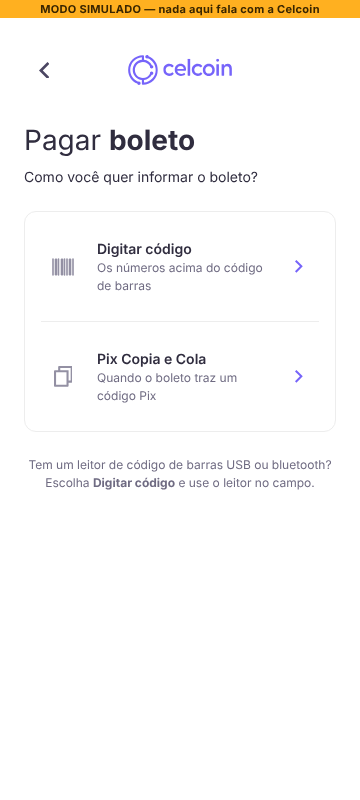
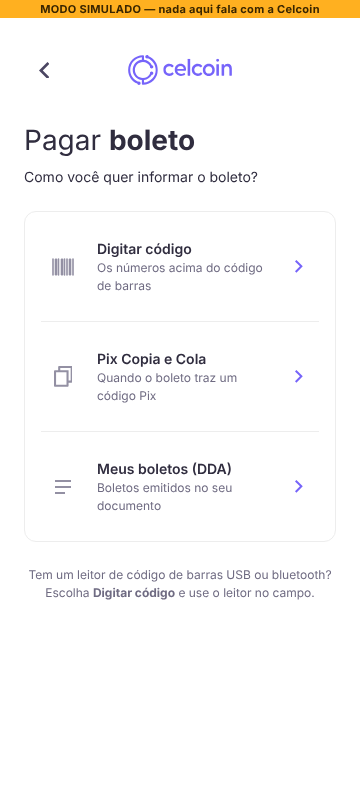
Catálogo e evidências de telas: módulo DDA (121 telas no total)
Claude-Session: https://claude.ai/code/session_01RmHqCyha3EQC9TShzPirEG

Changed region(s): [[0.0917, 0.5625, 0.9167, 0.6562], [0.1222, 0.7188, 0.8861, 0.75], [0.8861, 0.6875, 0.9167, 0.7188]]

diff --git a/docs/telas/Evidencias de telas.md b/docs/telas/Evidencias de telas.md
@@ -1,6 +1,6 @@
 # Evidências de telas
 
-Print de cada tela do LoBank, separado pelas pastas desta pasta `telas/`. Gerado por `tools/telas/capturar.py` (branch `app-rodada-0`, commit `84ad845`), no **modo simulado** e com dados fictícios.
+Print de cada tela do LoBank, separado pelas pastas desta pasta `telas/`. Gerado por `tools/telas/capturar.py` (branch `app-rodada-0`, commit `dbfee48`), no **modo simulado** e com dados fictícios.
 
 Para cada tela: de qual tela do Studio ela veio (board › tela e o id), **o que foi alterado** em relação ao que o Studio criou e **o motivo**. No fim de cada tópico ficam as telas do Studio que não entraram no app.
 
@@ -18,6 +18,7 @@ Resumo de todas as telas, três por linha: [telas.md](telas.md).
 - [Receber (QR Code)](#receber-qr-code): pasta `receber/`
 - [Extrato](#extrato): pasta `extrato/`
 - [Pagamento de contas (boleto)](#pagamento-de-contas-boleto): pasta `boleto/`
+- [DDA (Débito Direto Autorizado)](#dda-débito-direto-autorizado): pasta `dda/`
 
 ## Acesso e cadastro PF
 
@@ -434,7 +435,7 @@ Pasta: `home/`
 
 - **Rota:** `#/home`
 - **Origem no Studio:** Wallet › Home (`82e58028`)
-- **Alterado em relação ao Studio:** Sem cartão de crédito, "Solicitar crédito" e atalhos que não funcionam; atalhos reorganizados.
+- **Alterado em relação ao Studio:** Sem cartão de crédito, "Solicitar crédito" e atalhos que não funcionam; ações rápidas em 2 linhas de 3.
 - **Motivo:** comentário no Studio: "Não deve ter a parte de cartão de credito nem solicitar um credito"; e a regra "mostrar só o que funciona".
 
 ### 2. Home
@@ -443,8 +444,8 @@ Pasta: `home/`
 
 - **Rota:** `#/home`
 - **Origem no Studio:** Wallet › Home (`82e58028`)
-- **Alterado em relação ao Studio:** Atalhos: Fazer Pix, Cobrar com Pix, Minhas chaves, Pagar contas e Extrato.
-- **Motivo:** Mesma regra; "Pagar contas" entrou com o módulo de boleto.
+- **Alterado em relação ao Studio:** Ações rápidas: Fazer Pix, Cobrar com Pix, Minhas chaves, Pagar contas, DDA e Extrato.
+- **Motivo:** "Pagar contas" entrou com o módulo de boleto e "DDA" a pedido da usuária (11/11, 13:02); com 6 ações, elas foram para 2 linhas.
 
 ### 3. Fazer Pix: escolher forma
 
@@ -470,8 +471,8 @@ Pasta: `home/`
 
 - **Rota:** `#/minha-conta`
 - **Origem no Studio:** Wallet › Minha conta (`2d3d03ce`)
-- **Alterado em relação ao Studio:** Só Minhas chaves, Minhas senhas, Meus dados e Sair.
-- **Motivo:** Saíram Gestão de usuário, Limites, Tarifas, DDA, Dúvidas e Cancelar conta: não há API usada para eles.
+- **Alterado em relação ao Studio:** Só Minhas chaves, Débito Direto Autorizado (DDA), Minhas senhas, Meus dados e Sair.
+- **Motivo:** Saíram Gestão de usuário, Limites, Tarifas, Dúvidas e Cancelar conta: não há API usada para eles. O DDA voltou com o módulo de DDA, e é por ele que se sai do DDA (decisão da usuária).
 
 ### 6. Meus dados
 
@@ -897,7 +898,7 @@ Pasta: `boleto/`
 
 - **Rota:** `#/boleto`
 - **Origem no Studio:** Pagamento de Contas › Formas de Pagamento (`e742f777`)
-- **Alterado em relação ao Studio:** Só "Digitar código" e "Pix Copia e Cola"; dica para leitor USB ou bluetooth.
+- **Alterado em relação ao Studio:** Só "Digitar código", "Pix Copia e Cola" e "Meus boletos (DDA)"; dica para leitor USB ou bluetooth.
 - **Motivo:** Leitores por câmera: comentário no Studio: "Não deve essa função"; "Abrir PDF" retirado por decisão da usuária.
 
 ### 2. Digitar código (incompleto)
@@ -1036,3 +1037,184 @@ Pasta: `boleto/`
 | Pagamento de Contas › Confirmar Valor › Agendamento (`94e36ffe`) | Agendamento retirado por decisão da usuária. |
 | Pagamento de Contas › Pagamento agendado (`034d1958`) | Agendamento retirado por decisão da usuária. |
 | Pagamento de Contas › Comprovante de pagamento › Pagamento agendado (`b548a175`) | Agendamento retirado por decisão da usuária. |
+
+## DDA (Débito Direto Autorizado)
+
+Pasta: `dda/`
+
+### 1. Ative o DDA (termos)
+
+<img src="dda/01-ative-o-dda-termos.png" width="260" alt="Ative o DDA (termos)">
+
+- **Rota:** `#/dda/termos`
+- **Origem no Studio:** DDA › Aderir ao DDA › Termos de uso (`b86afc13`)
+- **Alterado em relação ao Studio:** Resumo do que o DDA mostra, link para o termo de adesão da Celcoin e aceite obrigatório (botão só libera depois do aceite).
+- **Motivo:** A Celcoin exige coletar e guardar o aceite do termo; o app grava data, hora e versão.
+
+### 2. Confira seus dados
+
+<img src="dda/02-confira-seus-dados.png" width="260" alt="Confira seus dados">
+
+- **Rota:** `#/dda/cadastro`
+- **Origem no Studio:** DDA › Aderir ao DDA › Cadastro (`12b7e262`)
+- **Alterado em relação ao Studio:** Os campos vêm com os dados da conta; nome e documento não podem ser editados.
+- **Motivo:** A adesão usa o documento da conta (decisão da usuária: um documento por conta). A API só recebe documento e nome; e-mail, telefone e CEP ficam guardados com o aceite.
+
+### 3. Ativando o DDA
+
+<img src="dda/03-ativando-o-dda.png" width="260" alt="Ativando o DDA">
+
+- **Rota:** `#/dda/processando`
+- **Origem no Studio:** DDA › Aderir ao DDA › Cadastro › Processamento (`0feb0a07`)
+- **Alterado em relação ao Studio:** Contagem de 30 s entre consultas e aviso de que pode levar até 10 minutos.
+- **Motivo:** A adesão é assíncrona e só responde por aviso; a usuária pediu 30 s porque a Celcoin leva cerca de 1 minuto.
+
+### 4. DDA ativado
+
+<img src="dda/04-dda-ativado.png" width="260" alt="DDA ativado">
+
+- **Rota:** `#/dda/sucesso`
+- **Origem no Studio:** DDA › Aderir ao DDA › Cadastro › Sucesso (`b138a51b`)
+- **Alterado em relação ao Studio:** Botão "Ver meus boletos".
+- **Motivo:** Leva direto à lista depois da adesão.
+
+### 5. Meus boletos (vazia)
+
+<img src="dda/05-meus-boletos-vazia.png" width="260" alt="Meus boletos (vazia)">
+
+- **Rota:** `#/dda/boletos`
+- **Origem no Studio:** DDA › Meus boletos › Vazia (`c2ec3a50`)
+- **Alterado em relação ao Studio:** Botão "Gerar boletos de teste (sandbox)" e "Atualizar" com a hora da última leitura.
+- **Motivo:** No sandbox, os boletos só existem se forem gerados; os avisos são lidos a cada 10 s, então a lista precisa de atualização manual.
+
+### 6. Boletos de teste pedidos
+
+<img src="dda/06-boletos-de-teste-pedidos.png" width="260" alt="Boletos de teste pedidos">
+
+- **Rota:** `#/dda/boletos`
+- **Origem no Studio:** DDA › Meus boletos › Vazia (`c2ec3a50`)
+- **Alterado em relação ao Studio:** Modal novo com "Entendi".
+- **Motivo:** A mensagem sumia rápido demais (D5, pedido da usuária).
+
+### 7. Meus boletos
+
+<img src="dda/07-meus-boletos.png" width="260" alt="Meus boletos">
+
+- **Rota:** `#/dda/boletos`
+- **Origem no Studio:** DDA › Meus boletos › Preenchida (`2fa3c1ee`)
+- **Alterado em relação ao Studio:** Mesmos filtros e cartões do Studio; valores convertidos de centavos; "Atualizar" a cada 10 s.
+- **Motivo:** Os avisos da Celcoin trazem os valores em centavos e vários boletos por documento.
+
+### 8. Filtro: vencidos
+
+<img src="dda/08-filtro-vencidos.png" width="260" alt="Filtro: vencidos">
+
+- **Rota:** `#/dda/boletos`
+- **Origem no Studio:** DDA › Meus boletos › Preenchida (`2fa3c1ee`)
+- **Alterado em relação ao Studio:** "Vencido" é calculado pelo app (boleto em aberto com vencimento passado).
+- **Motivo:** O aviso traz só o status "Aberto"; não há status de vencido.
+
+### 9. Opções
+
+<img src="dda/09-opcoes.png" width="260" alt="Opções">
+
+- **Rota:** `#/dda/boletos`
+- **Origem no Studio:** DDA › Meus boletos › Preenchida (`2fa3c1ee`)
+- **Alterado em relação ao Studio:** Igual ao menu do Studio, com "Gerar boletos de teste (sandbox)" a mais.
+- **Motivo:** Mesmo motivo do botão de teste.
+
+### 10. Sobre o DDA
+
+<img src="dda/10-sobre-o-dda.png" width="260" alt="Sobre o DDA">
+
+- **Rota:** `#/dda/termos-info`
+- **Origem no Studio:** Tela nova, não existe no Studio (no modelo de DDA › Meus boletos › Preenchida (`2fa3c1ee`))
+- **Alterado em relação ao Studio:** Tela nova para o item "Sobre o DDA" do menu.
+- **Motivo:** O Studio tem o item, mas não a tela.
+
+### 11. Detalhe do boleto
+
+<img src="dda/11-detalhe-do-boleto.png" width="260" alt="Detalhe do boleto">
+
+- **Rota:** `#/dda/boleto/:id`
+- **Origem no Studio:** DDA › Meus boletos › Detalhe do boleto (`b45f3550`)
+- **Alterado em relação ao Studio:** Juros e multa traduzidos pelos códigos da Celcoin; situação na Celcoin e "Copiar código".
+- **Motivo:** O aviso traz só códigos e números; a tabela de códigos está no guia "Sobre DDA".
+
+### 12. Pagar: código não reconhecido
+
+<img src="dda/12-pagar-codigo-nao-reconhecido.png" width="260" alt="Pagar: código não reconhecido">
+
+- **Rota:** `#/dda/boleto/:id`
+- **Origem no Studio:** DDA › Meus boletos › Detalhe do boleto (`b45f3550`)
+- **Alterado em relação ao Studio:** Mensagem no próprio detalhe.
+- **Motivo:** No sandbox, os boletos de teste do DDA não podem ser pagos (822 pela linha, 623 pelo código de barras); decisão da usuária: fluxo real mostrando o erro.
+
+### 13. Minha conta: DDA ativo
+
+<img src="dda/13-minha-conta-dda-ativo.png" width="260" alt="Minha conta: DDA ativo">
+
+- **Rota:** `#/minha-conta`
+- **Origem no Studio:** Wallet › Minha conta (`2d3d03ce`)
+- **Alterado em relação ao Studio:** Modal novo com "Ver meus boletos" e "Sair do DDA".
+- **Motivo:** Decisão da usuária: sair do DDA pelo Minha conta.
+
+### 14. Sair do DDA: senha incorreta
+
+<img src="dda/14-sair-do-dda-senha-incorreta.png" width="260" alt="Sair do DDA: senha incorreta">
+
+- **Rota:** `#/minha-conta`
+- **Origem no Studio:** Wallet › Minha conta (`2d3d03ce`)
+- **Alterado em relação ao Studio:** Confirmação com senha de transferência; senha errada mostra a mensagem sem sair da sessão.
+- **Motivo:** No D6, a senha errada mandava para o login.
+
+### 15. Saindo do DDA
+
+<img src="dda/15-saindo-do-dda.png" width="260" alt="Saindo do DDA">
+
+- **Rota:** `#/dda/processando`
+- **Origem no Studio:** DDA › Aderir ao DDA › Cadastro › Processamento (`0feb0a07`)
+- **Alterado em relação ao Studio:** Processamento do Studio aplicado à saída, com 30 s entre consultas.
+- **Motivo:** A saída também é assíncrona.
+
+### 16. DDA desativado
+
+<img src="dda/16-dda-desativado.png" width="260" alt="DDA desativado">
+
+- **Rota:** `#/dda/desativado`
+- **Origem no Studio:** Tela nova, não existe no Studio (no modelo de DDA › Aderir ao DDA › Cadastro › Sucesso (`b138a51b`))
+- **Alterado em relação ao Studio:** Tela nova no modelo de "DDA ativado".
+- **Motivo:** Pedido da usuária: avisar quem ainda estava esperando a resposta.
+
+### 17. Erro na adesão
+
+<img src="dda/17-erro-na-adesao.png" width="260" alt="Erro na adesão">
+
+- **Rota:** `#/dda/erro`
+- **Origem no Studio:** DDA › Aderir ao DDA › Cadastro › Erro (`4e85d7cd`)
+- **Alterado em relação ao Studio:** Mostra o código de erro da Celcoin e "Tentar de novo".
+- **Motivo:** Massa de teste da Celcoin: CPF 26817625025 simula adesão com erro (CDDA101).
+
+### 18. Não conseguimos confirmar o DDA
+
+<img src="dda/18-nao-conseguimos-confirmar-o-dda.png" width="260" alt="Não conseguimos confirmar o DDA">
+
+- **Rota:** `#/dda/indisponivel`
+- **Origem no Studio:** Tela nova, não existe no Studio (no modelo de DDA › Aderir ao DDA › Cadastro › Erro (`4e85d7cd`))
+- **Alterado em relação ao Studio:** Tela nova: aparece quando os avisos não podem ser lidos e não há nada guardado.
+- **Motivo:** No D1, sem o token do webhook.site, o app mostrava "Ative o DDA" para uma conta já ativa.
+
+### 19. Sem confirmação da Celcoin
+
+<img src="dda/19-sem-confirmacao-da-celcoin.png" width="260" alt="Sem confirmação da Celcoin">
+
+- **Rota:** `#/dda/sem-resposta`
+- **Origem no Studio:** Tela nova, não existe no Studio (no modelo de DDA › Aderir ao DDA › Cadastro › Erro (`4e85d7cd`))
+- **Alterado em relação ao Studio:** Tela nova: pedido sem aviso depois do prazo (10 min no app; 1 min nesta captura), com "Pedir de novo".
+- **Motivo:** A saída da LTDA em 11/11 nunca teve aviso e a Celcoin não tem consulta de status (decisão da usuária).
+
+### Telas do Studio que não entraram no app
+
+| Tela do Studio | Motivo |
+|---|---|
+| DDA › EXCLUIR (`46b9c2d6`) | Tela chamada "EXCLUIR" no board, sem comentário; o HTML não foi lido. O menu Opções de Meus boletos já traz "Cancelar DDA". |

diff --git a/docs/telas/telas.md b/docs/telas/telas.md
@@ -1,6 +1,6 @@
 # Telas do LoBank
 
-Gerado por `tools/telas/capturar.py` (branch `app-rodada-0`, commit `84ad845`), no **modo simulado**, em 360 × 800.
+Gerado por `tools/telas/capturar.py` (branch `app-rodada-0`, commit `dbfee48`), no **modo simulado**, em 360 × 800.
 Os dados nas telas são fictícios. Para atualizar: `python3 tools/telas/capturar.py ../lobank-teste-leigo/docs` (só depois da versão final confirmada).
 
 **Regra:** uma tela nova ou alterada só entra aqui depois que a usuária confirmar que é a versão final daquela tela.
@@ -17,6 +17,7 @@ Resumo de todas as telas. O detalhamento de cada uma está em [Evidências de te
 - [Receber (QR Code)](#receber-qr-code) (6 telas)
 - [Extrato](#extrato) (8 telas)
 - [Pagamento de contas (boleto)](#pagamento-de-contas-boleto) (15 telas)
+- [DDA (Débito Direto Autorizado)](#dda-débito-direto-autorizado) (19 telas)
 
 ## Acesso e cadastro PF
 
@@ -109,6 +110,20 @@ Detalhamento (origem no Studio, alteração e motivo): [Evidências de telas ›
 <tr><td align="center" valign="top" width="33%"><img src="boleto/07-informar-valor-fora-do-intervalo.png" width="240" alt="Informar valor: fora do intervalo"><br><b>Informar valor: fora do intervalo</b><br><code>#/boleto/valor</code></td><td align="center" valign="top" width="33%"><img src="boleto/08-confirmar-valor.png" width="240" alt="Confirmar valor"><br><b>Confirmar valor</b><br><code>#/boleto/confirmar</code></td><td align="center" valign="top" width="33%"><img src="boleto/09-senha-de-transferencia.png" width="240" alt="Senha de transferência"><br><b>Senha de transferência</b><br><code>#/boleto/confirmar</code></td></tr>
 <tr><td align="center" valign="top" width="33%"><img src="boleto/10-pagamento-em-processamento.png" width="240" alt="Pagamento em processamento"><br><b>Pagamento em processamento</b><br><code>#/boleto/pagamento/:id</code></td><td align="center" valign="top" width="33%"><img src="boleto/11-pagamento-concluido.png" width="240" alt="Pagamento concluído"><br><b>Pagamento concluído</b><br><code>#/boleto/pagamento/:id</code></td><td align="center" valign="top" width="33%"><img src="boleto/12-comprovante-do-boleto.png" width="240" alt="Comprovante do boleto"><br><b>Comprovante do boleto</b><br><code>#/boleto/comprovante/:id</code></td></tr>
 <tr><td align="center" valign="top" width="33%"><img src="boleto/13-falha-no-pagamento-com-valor-debitado.png" width="240" alt="Falha no pagamento com valor debitado"><br><b>Falha no pagamento com valor debitado</b><br><code>#/boleto/pagamento/:id</code></td><td align="center" valign="top" width="33%"><img src="boleto/14-comprovante-pagamento-nao-concluido.png" width="240" alt="Comprovante: pagamento não concluído"><br><b>Comprovante: pagamento não concluído</b><br><code>#/boleto/comprovante/:id</code></td><td align="center" valign="top" width="33%"><img src="boleto/15-saldo-insuficiente.png" width="240" alt="Saldo insuficiente"><br><b>Saldo insuficiente</b><br><code>#/boleto/saldo-insuficiente</code></td></tr>
+</table>
+
+## DDA (Débito Direto Autorizado)
+
+Detalhamento (origem no Studio, alteração e motivo): [Evidências de telas › DDA (Débito Direto Autorizado)](Evidencias%20de%20telas.md#dda-débito-direto-autorizado)
+
+<table>
+<tr><td align="center" valign="top" width="33%"><img src="dda/01-ative-o-dda-termos.png" width="240" alt="Ative o DDA (termos)"><br><b>Ative o DDA (termos)</b><br><code>#/dda/termos</code></td><td align="center" valign="top" width="33%"><img src="dda/02-confira-seus-dados.png" width="240" alt="Confira seus dados"><br><b>Confira seus dados</b><br><code>#/dda/cadastro</code></td><td align="center" valign="top" width="33%"><img src="dda/03-ativando-o-dda.png" width="240" alt="Ativando o DDA"><br><b>Ativando o DDA</b><br><code>#/dda/processando</code></td></tr>
+<tr><td align="center" valign="top" width="33%"><img src="dda/04-dda-ativado.png" width="240" alt="DDA ativado"><br><b>DDA ativado</b><br><code>#/dda/sucesso</code></td><td align="center" valign="top" width="33%"><img src="dda/05-meus-boletos-vazia.png" width="240" alt="Meus boletos (vazia)"><br><b>Meus boletos (vazia)</b><br><code>#/dda/boletos</code></td><td align="center" valign="top" width="33%"><img src="dda/06-boletos-de-teste-pedidos.png" width="240" alt="Boletos de teste pedidos"><br><b>Boletos de teste pedidos</b><br><code>#/dda/boletos</code></td></tr>
+<tr><td align="center" valign="top" width="33%"><img src="dda/07-meus-boletos.png" width="240" alt="Meus boletos"><br><b>Meus boletos</b><br><code>#/dda/boletos</code></td><td align="center" valign="top" width="33%"><img src="dda/08-filtro-vencidos.png" width="240" alt="Filtro: vencidos"><br><b>Filtro: vencidos</b><br><code>#/dda/boletos</code></td><td align="center" valign="top" width="33%"><img src="dda/09-opcoes.png" width="240" alt="Opções"><br><b>Opções</b><br><code>#/dda/boletos</code></td></tr>
+<tr><td align="center" valign="top" width="33%"><img src="dda/10-sobre-o-dda.png" width="240" alt="Sobre o DDA"><br><b>Sobre o DDA</b><br><code>#/dda/termos-info</code></td><td align="center" valign="top" width="33%"><img src="dda/11-detalhe-do-boleto.png" width="240" alt="Detalhe do boleto"><br><b>Detalhe do boleto</b><br><code>#/dda/boleto/:id</code></td><td align="center" valign="top" width="33%"><img src="dda/12-pagar-codigo-nao-reconhecido.png" width="240" alt="Pagar: código não reconhecido"><br><b>Pagar: código não reconhecido</b><br><code>#/dda/boleto/:id</code></td></tr>
+<tr><td align="center" valign="top" width="33%"><img src="dda/13-minha-conta-dda-ativo.png" width="240" alt="Minha conta: DDA ativo"><br><b>Minha conta: DDA ativo</b><br><code>#/minha-conta</code></td><td align="center" valign="top" width="33%"><img src="dda/14-sair-do-dda-senha-incorreta.png" width="240" alt="Sair do DDA: senha incorreta"><br><b>Sair do DDA: senha incorreta</b><br><code>#/minha-conta</code></td><td align="center" valign="top" width="33%"><img src="dda/15-saindo-do-dda.png" width="240" alt="Saindo do DDA"><br><b>Saindo do DDA</b><br><code>#/dda/processando</code></td></tr>
+<tr><td align="center" valign="top" width="33%"><img src="dda/16-dda-desativado.png" width="240" alt="DDA desativado"><br><b>DDA desativado</b><br><code>#/dda/desativado</code></td><td align="center" valign="top" width="33%"><img src="dda/17-erro-na-adesao.png" width="240" alt="Erro na adesão"><br><b>Erro na adesão</b><br><code>#/dda/erro</code></td><td align="center" valign="top" width="33%"><img src="dda/18-nao-conseguimos-confirmar-o-dda.png" width="240" alt="Não conseguimos confirmar o DDA"><br><b>Não conseguimos confirmar o DDA</b><br><code>#/dda/indisponivel</code></td></tr>
+<tr><td align="center" valign="top" width="33%"><img src="dda/19-sem-confirmacao-da-celcoin.png" width="240" alt="Sem confirmação da Celcoin"><br><b>Sem confirmação da Celcoin</b><br><code>#/dda/sem-resposta</code></td></tr>
 </table>
 
 ## Rotas sem print

diff --git a/docs/testes/friction-log.md b/docs/testes/friction-log.md
@@ -272,6 +272,7 @@ Commits no branch `app-rodada-0`: `7bf26d0` (PJ), `d9746cc` (Copia e Cola e agê
 | 11/11 13:53 | Conferência pedida pela usuária: `invoice/register` para a LTDA | HTTP **500** `999` "Nenhuma subscrição ativa encontrada para os documentos informados" | **A LTDA já está fora do DDA**: só o aviso se perdeu. A documentação diz que um documento sem adesão volta como 201 com `Fail`, não 500. |
 | 11/11 13:54 | Decisão da usuária: prazo para pedido sem aviso (opção 1) | Feito no commit `c5e9011`: sem aviso em 30 min, o app mostra "Não recebemos a confirmação da Celcoin" e libera pedir de novo. Se, ao repetir a saída, a Celcoin disser que não há adesão ativa, o app registra a saída e mostra "DDA desativado" | A LTDA fica liberada a partir das 14:08 (30 min depois do pedido das 13:37). Às 13:59, a pedido da usuária ("30 minutos é muito tempo"), o prazo passou para **10 min** (commit `47ada35`), o máximo que a Celcoin indica para o sandbox. |
 | 11/11 14:01 | Pedido da usuária: considerar a LTDA fora do DDA sem repetir a saída | Script `tools/dda-marcar-saida.js` (commit `3708f63`): grava no banco do app um aviso `Inactive` marcado como manual. Não chama a Celcoin | A saída já tinha sido confirmada às 13:53 pela resposta 999 "Nenhuma subscrição ativa". |
+| 11/11 14:03 | A usuária confirmou que as telas estão na versão final | Catálogo e evidências gerados de novo: **121 telas**, com o módulo DDA (19 telas) e as telas alteradas (Home com o atalho DDA, Minha conta, Formas de pagamento) | Rotas sem print e erros de captura: nenhum. |
 
 **Testado no sandbox real até 17:56 (Fase 2 completa):** cadastro PJ MEI e login por CNPJ (A), cadastro PJ LTDA com 2 sócios, Meus dados PJ, Pix `MANUAL` (B), Pix `STATIC_QRCODE` (C), atualização de dados PF (D), arquivos do extrato (PDF, CSV, OFX). **Fica de fora:** QR Code dinâmico, sócio pessoa jurídica, envio do extrato por e-mail e o recebimento de Pix entre contas do mesmo tenant (defeito da Celcoin, item 1).
 
